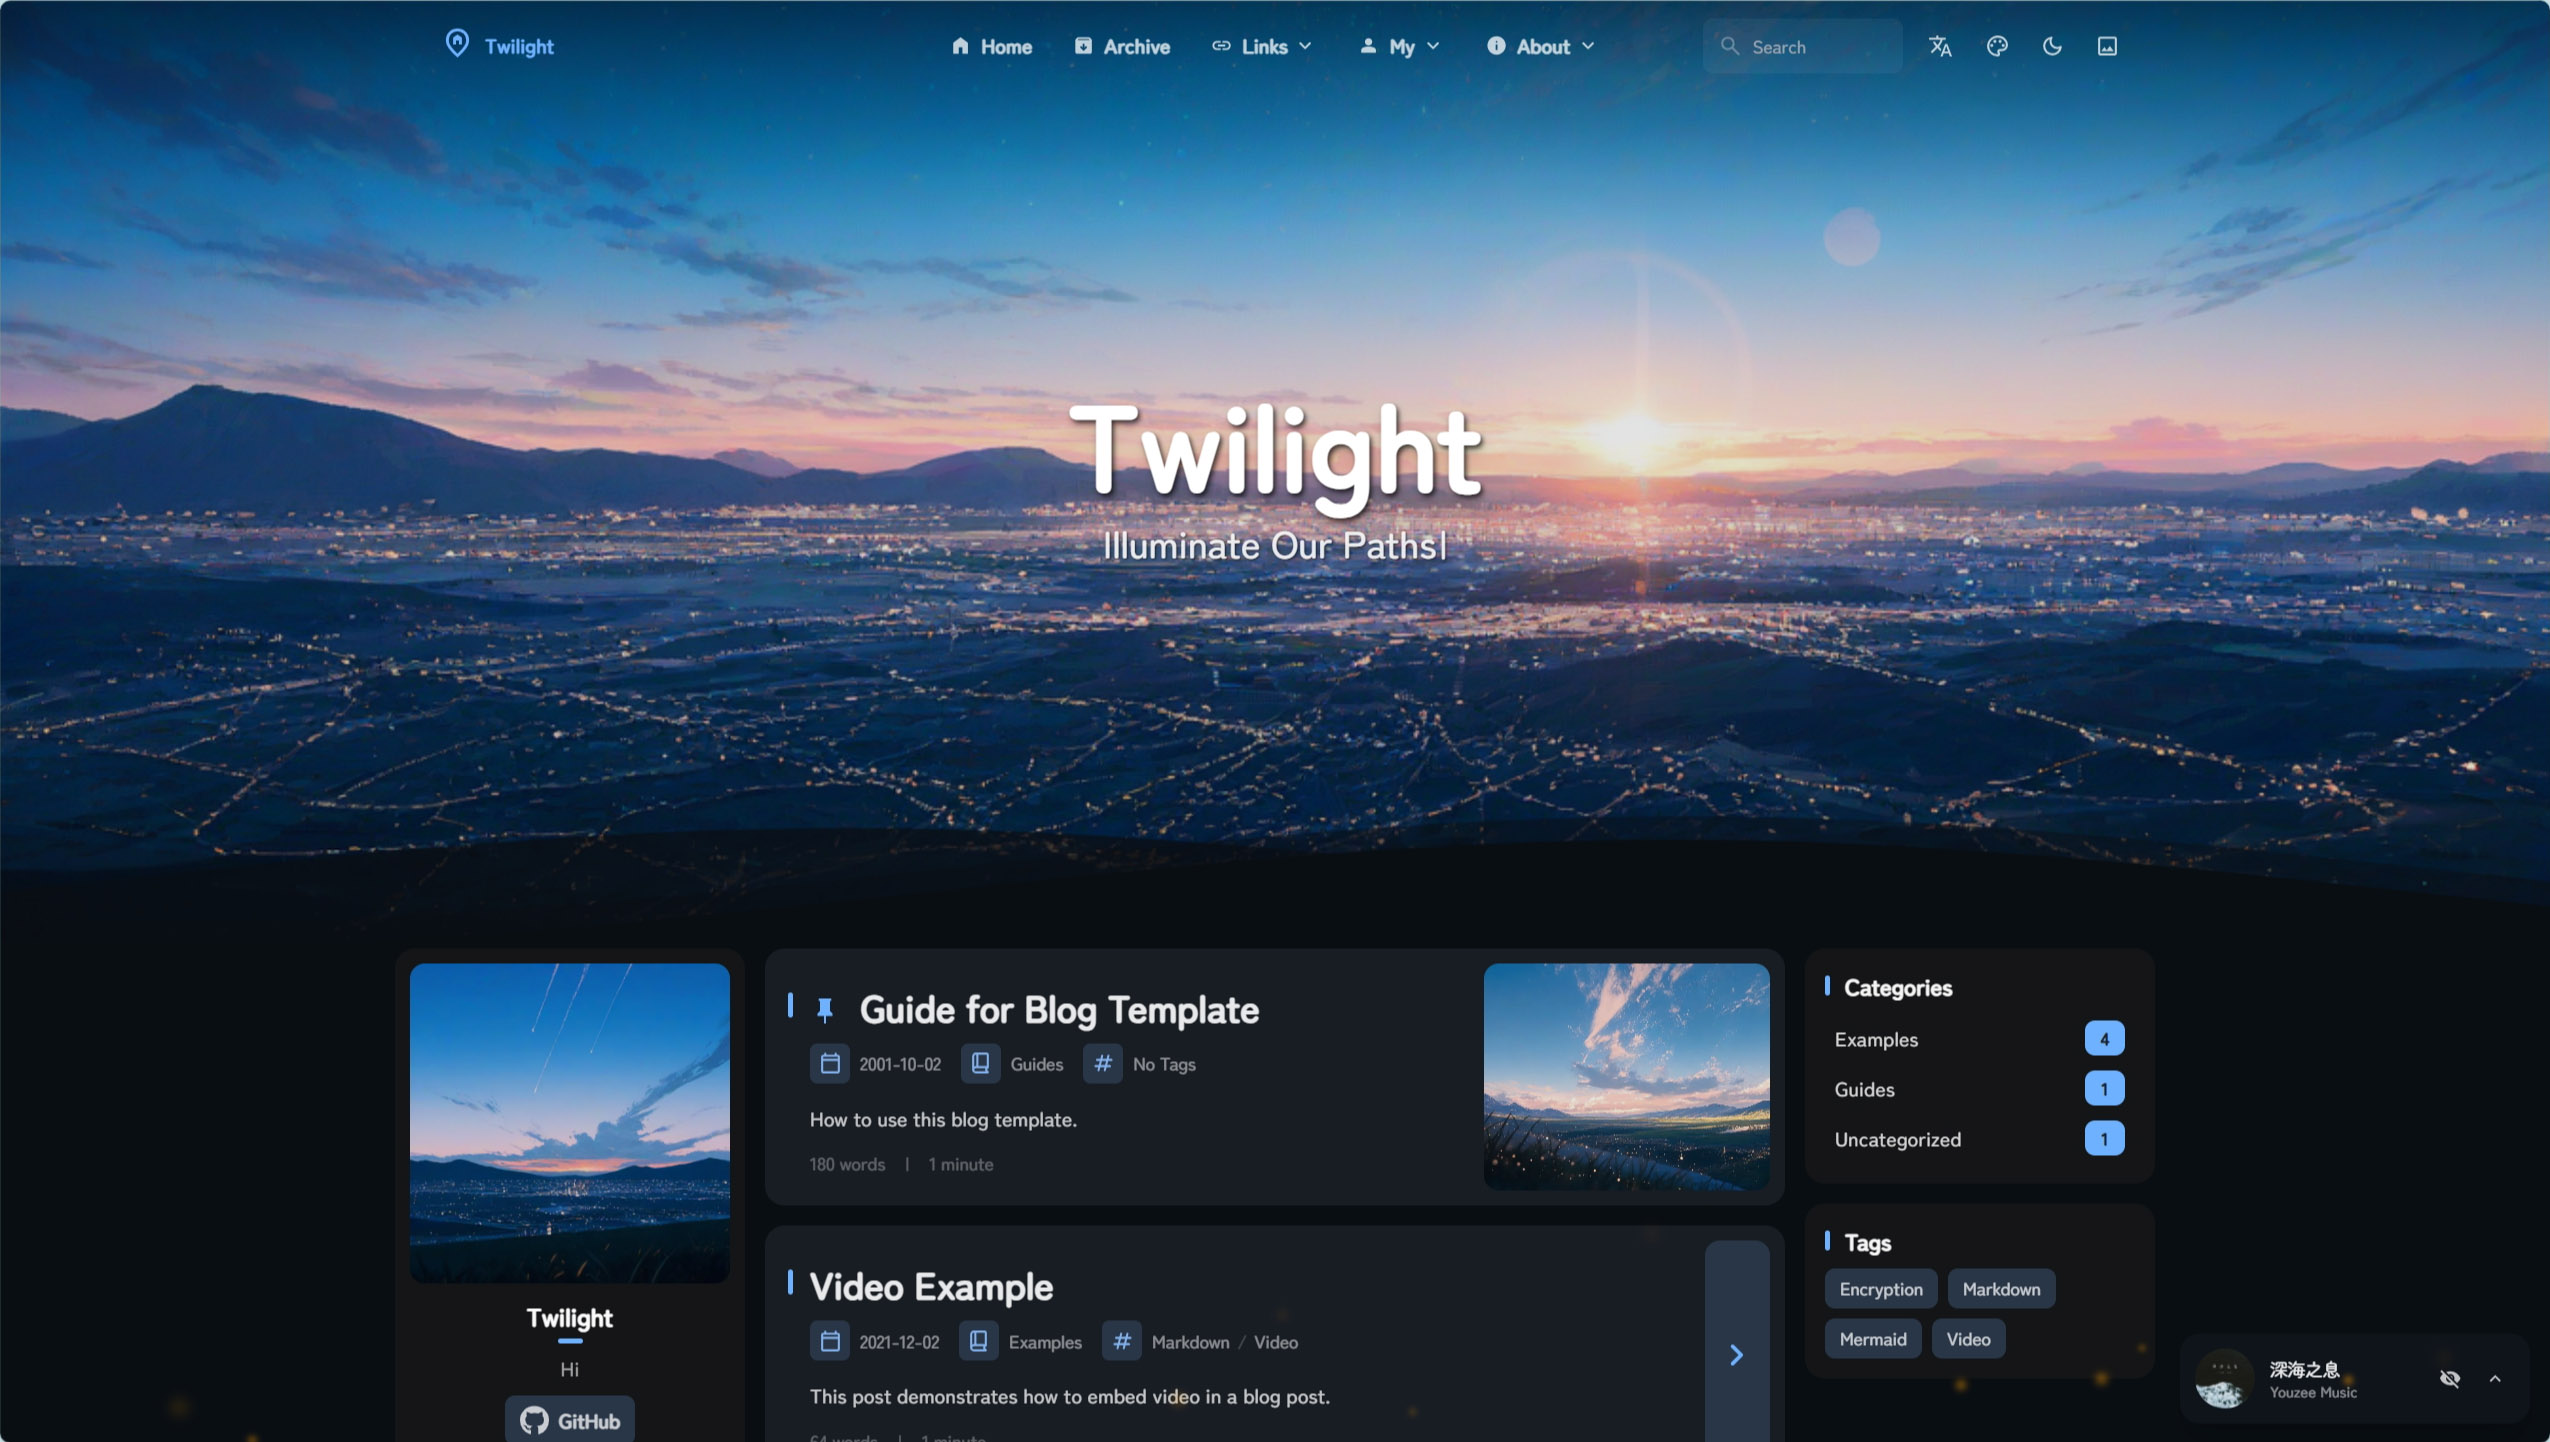
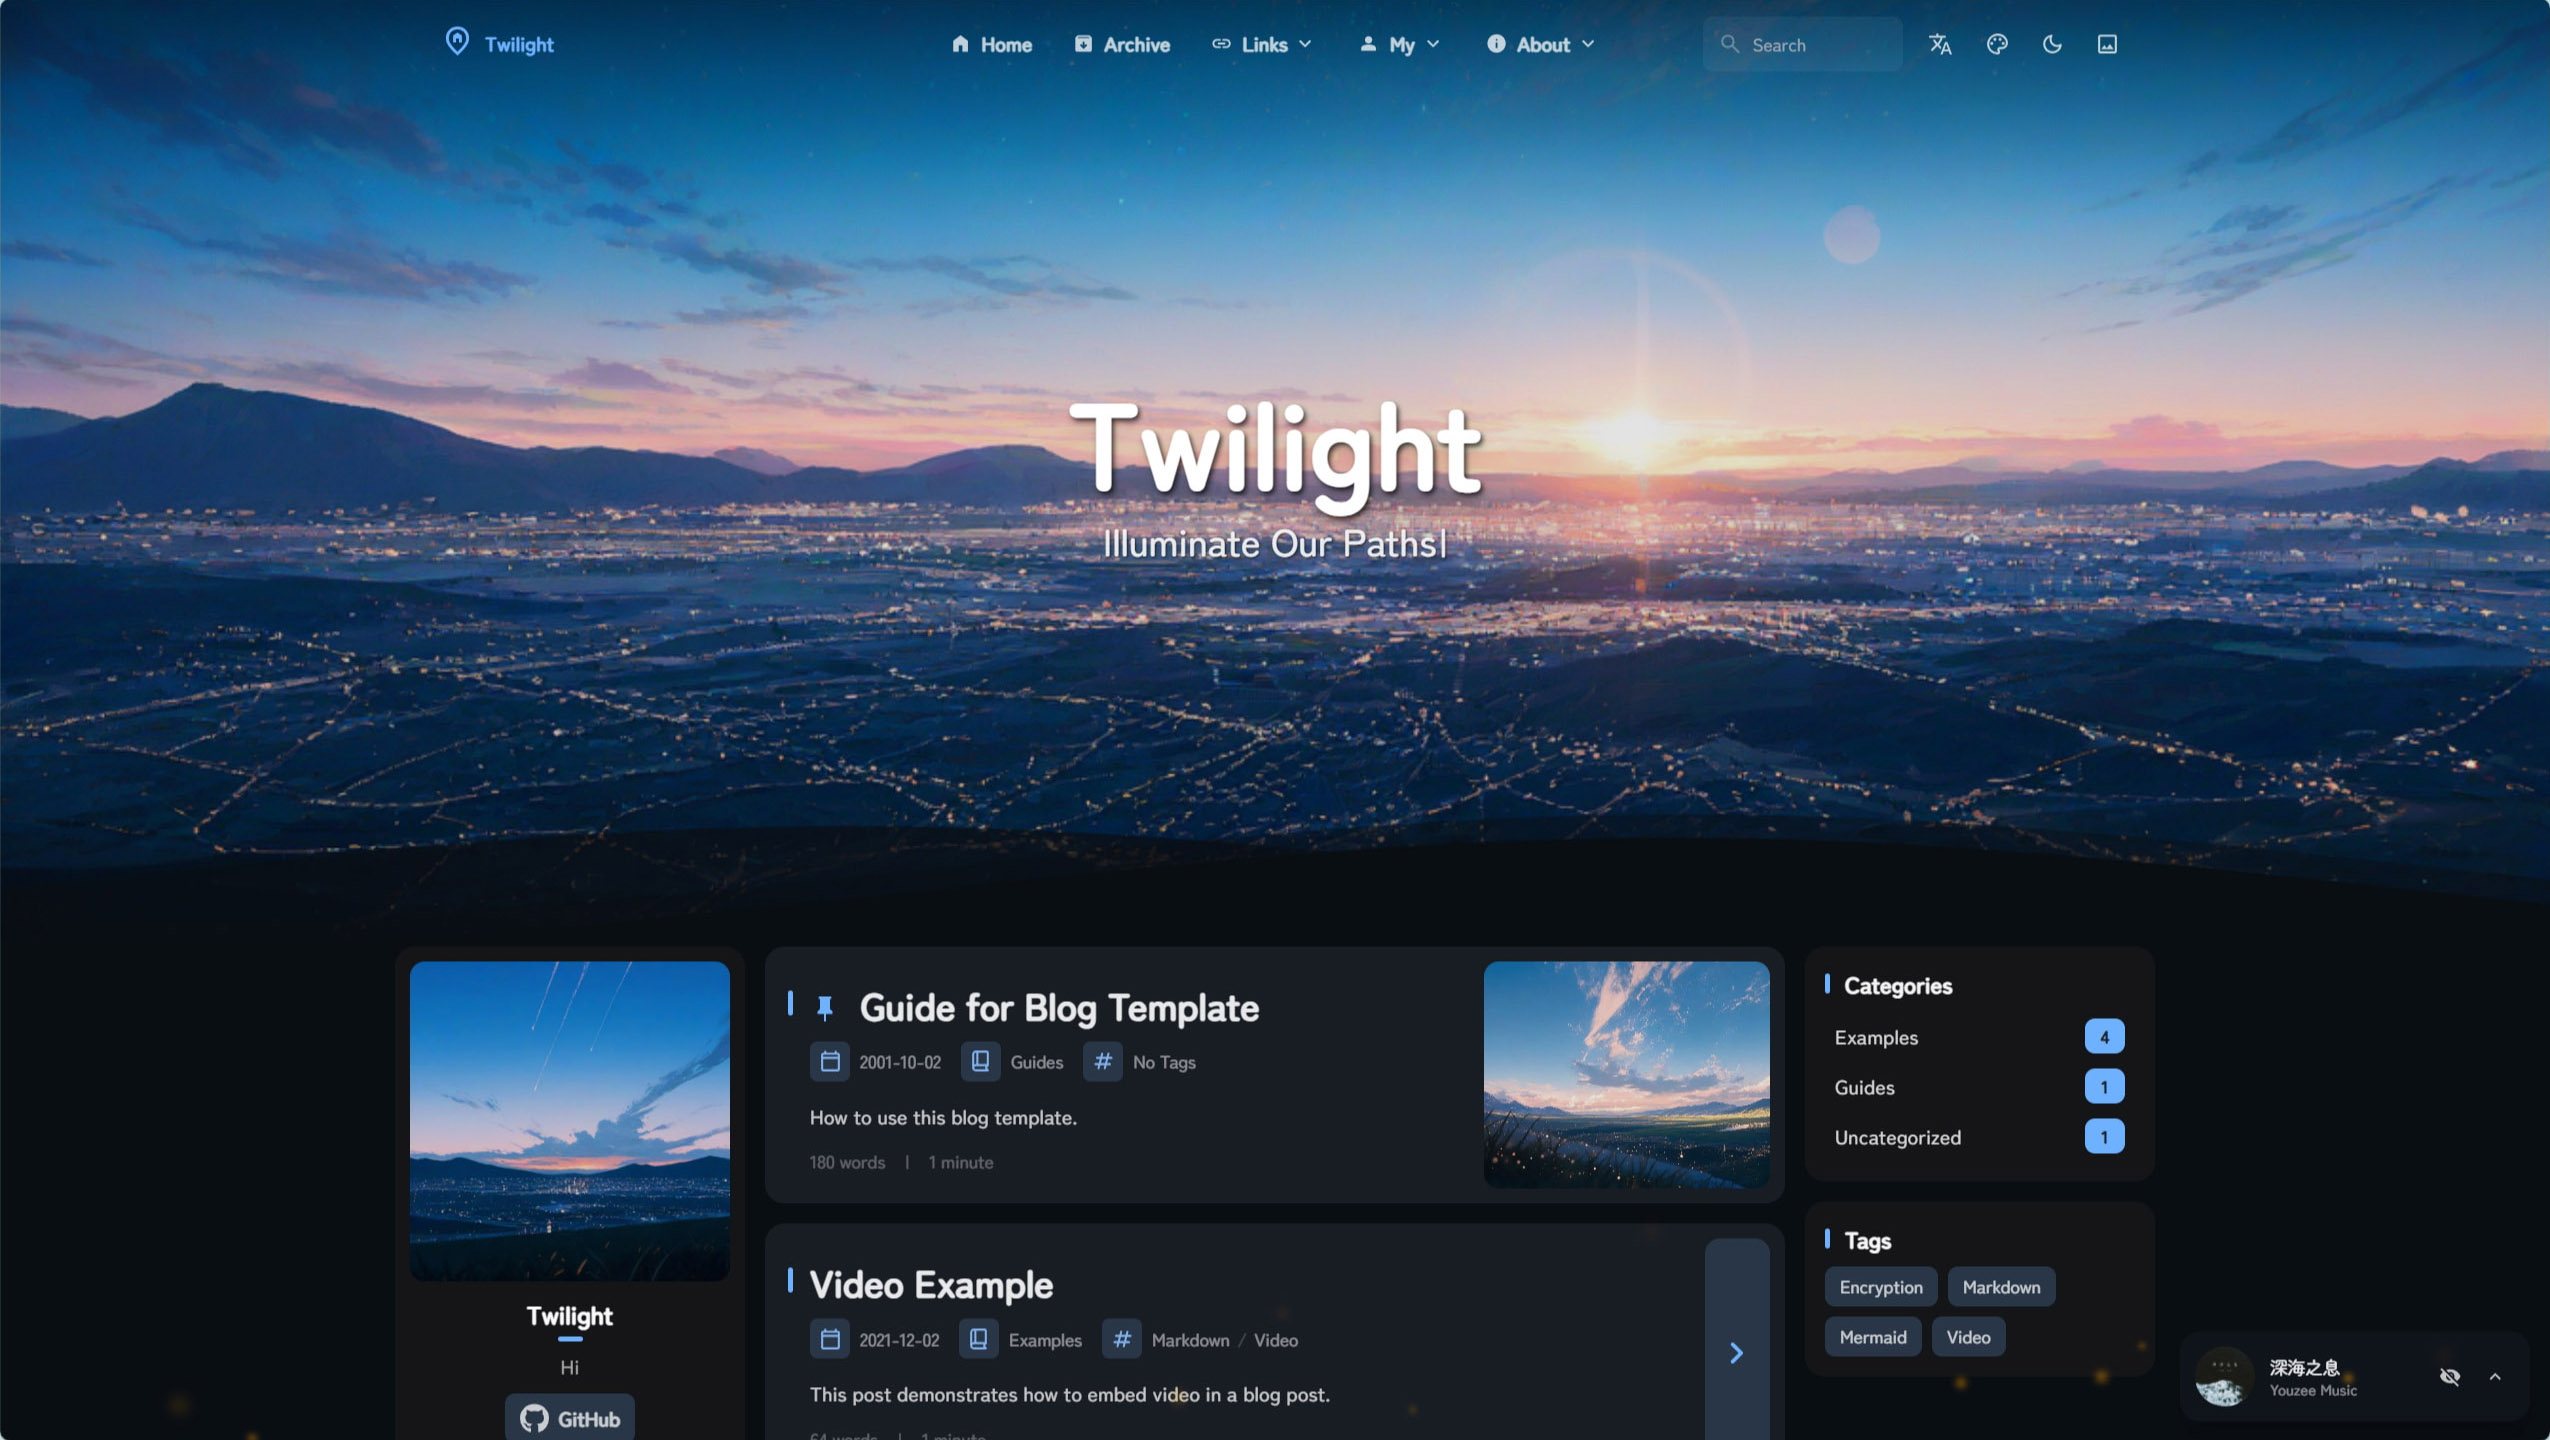
Update README

diff --git a/README.md b/README.md
@@ -2,6 +2,14 @@
 
 # Twilight
 
+A CMS integrated static blog template built with [Astro](https://astro.build) framework.
+
+[![Bilibili](https://img.shields.io/badge/Bilibili-v1.0%20Intro-blue?logo=Bilibili&style=for-the-badge)](https://www.bilibili.com/video/BV18VsUzNEmL)&nbsp;
+[![YouTube](https://img.shields.io/badge/YouTube-v1.0%20Intro-red?logo=YouTube&style=for-the-badge)](https://www.youtube.com/watch?v=VVEiOK8WAK0)
+
+[**🖥 Live Demo**](https://twilight.spr-aachen.com)
+[**📝 Documentation**](https://docs.twilight.spr-aachen.com/en)
+
 <table style="width: 100%; table-layout: fixed;">
    <tr>
       <td colspan="5"><img alt="Desktop" src="docs/image/Desktop.jpg" style="max-width: 100%;"></td>
@@ -15,19 +23,40 @@
    </tr>
 </table>
 
-A CMS integrated static blog template built with [Astro](https://astro.build) framework.
+</div>
 
-[![Bilibili](https://img.shields.io/badge/Bilibili-v1.0%20Intro-blue?logo=Bilibili&style=for-the-badge)](https://www.bilibili.com/video/BV18VsUzNEmL)&nbsp;
-[![YouTube](https://img.shields.io/badge/YouTube-v1.0%20Intro-red?logo=YouTube&style=for-the-badge)](https://www.youtube.com/watch?v=VVEiOK8WAK0)
+---
 
-[**🖥 Live Demo**](https://twilight.spr-aachen.com)
-[**📝 Documentation**](https://docs.twilight.spr-aachen.com/en)
+<div align = "center">
 
 English | [**中文**](docs/README_ZH.md)
 
 </div>
 
----
+
+## ✨ Features
+
+### Content
+- **CMS Functionality**: Easy content management with Decap CMS integration
+- **Data Visualization**: Visualized personal data like projects, skills etc.
+- **Table of Contents**: Automatic generation of post navigation
+
+### Components
+- **Analytics Support**: Umami analytics integration for visitor insights
+- **Comment System**: Twikoo-powered comment functionality
+- **Music Player**: Background music support with playlist management
+- **PIO Widget**: Interactive live2d character support
+
+### VFX
+- **Code Highlighting**: Beautiful syntax highlighting for code blocks
+- **Customizable Theme Colors**: Realtime customizable color schemes
+- **Dynamic Wallpaper System**: Carousel support with multiple display modes
+- **Immersive Particle Effects**: Highly customizable animated particles
+
+### Compability
+- **Modern & Responsive Design**: Fully optimized for desktop and mobile devices
+- **Multilingual Capability**: Built-in translation functionality for global accessibility
+
 
 ## 📦 Installation
 
@@ -65,22 +94,30 @@ Deploy your blog to any static hosting platform
 
 ## ⚡ Commands
 
-| Command                    | Action                                  |
-|:---------------------------|:----------------------------------------|
-| `pnpm install`             | Install dependencies                    |
-| `pnpm dev`                 | Start local dev server                  |
-| `pnpm build`               | Build production site to `./dist/`      |
-| `pnpm preview`             | Preview build locally before deployment |
-| `pnpm check`               | Run Astro error checking                |
-| `pnpm format`              | Format code with Biome                  |
-| `pnpm lint`                | Check and fix code issues               |
-| `pnpm new-post <filename>` | Create a new blog post                  |
-| `pnpm astro ...`           | Run Astro CLI commands                  |
+| Command                     | Action                      |
+|:----------------------------|:----------------------------|
+| `pnpm install`              | Install dependencies        |
+| `pnpm dev`                  | Start local dev server      |
+| `pnpm build`                | Build site to `./dist/`     |
+| `pnpm preview`              | Preview build locally       |
+| `pnpm check`                | Run Astro error checking    |
+| `pnpm lint`                 | Check and fix code issues   |
+| `pnpm format`               | Format code with Biome      |
+| `pnpm new-post <filename>`  | Create a new blog post      |
+| `pnpm astro ...`            | Run Astro CLI commands      |
 
 
 ## 🙏 Acknowledgements
 
-- Based on the original [Fuwari](https://github.com/saicaca/fuwari) template
-- Inspired by [Yukina](https://github.com/WhitePaper233/yukina) & [Mizuki](https://github.com/matsuzaka-yuki/Mizuki) templates
-- CMS functionality powered by [astro-decap-cms-oauth](https://github.com/dorukgezici/astro-decap-cms-oauth)
-- Translation functionality powered by [translate](https://gitee.com/mail_osc/translate)
+- Prototype   - [Fuwari](https://github.com/saicaca/fuwari)
+- Inspiration - [Yukina](https://github.com/WhitePaper233/yukina) & [Mizuki](https://github.com/matsuzaka-yuki/Mizuki)
+- CMS         - [astro-decap-cms-oauth](https://github.com/dorukgezici/astro-decap-cms-oauth)
+- translation - [translate](https://gitee.com/mail_osc/translate)
+
+
+## 🤝 Support
+
+This project is supported by Alibaba Cloud ESA for accelerated delivery, compute, and protection.
+<a href="https://esa.console.aliyun.com/">
+   <img src="https://img.alicdn.com/imgextra/i3/O1CN01H1UU3i1Cti9lYtFrs_!!6000000000139-2-tps-7534-844.png" alt="Alibaba Cloud ESA Support" style="max-width: 100%; height: auto;">
+</a>

diff --git a/docs/README_ZH.md b/docs/README_ZH.md
@@ -2,6 +2,14 @@
 
 # Twilight
 
+一个基于 Astro 框架打造的支持后台管理的静态博客模板
+
+[![Bilibili](https://img.shields.io/badge/Bilibili-v1.0%20Intro-blue?logo=Bilibili&style=for-the-badge)](https://www.bilibili.com/video/BV18VsUzNEmL)&nbsp;
+[![YouTube](https://img.shields.io/badge/YouTube-v1.0%20Intro-red?logo=YouTube&style=for-the-badge)](https://www.youtube.com/watch?v=VVEiOK8WAK0)
+
+[**🖥 演示**](https://twilight.spr-aachen.com)
+[**📝 文档**](https://docs.twilight.spr-aachen.com)
+
 <table style="width: 100%; table-layout: fixed;">
    <tr>
       <td colspan="5"><img alt="Desktop" src="image/Desktop.jpg" style="max-width: 100%;"></td>
@@ -15,19 +23,40 @@
    </tr>
 </table>
 
-一个支持后台管理的静态博客模板
+</div>
 
-[![Bilibili](https://img.shields.io/badge/Bilibili-v1.0%20Intro-blue?logo=Bilibili&style=for-the-badge)](https://www.bilibili.com/video/BV18VsUzNEmL)&nbsp;
-[![YouTube](https://img.shields.io/badge/YouTube-v1.0%20Intro-red?logo=YouTube&style=for-the-badge)](https://www.youtube.com/watch?v=VVEiOK8WAK0)
+---
 
-[**🖥 演示**](https://twilight.spr-aachen.com)
-[**📝 文档**](https://docs.twilight.spr-aachen.com)
+<div align = "center">
 
 [**English**](../README.md) | 中文
 
 </div>
 
----
+
+## ✨ 特性
+
+### 内容
+- **CMS 功能**: 基于 Decap CMS 的便捷内容管理
+- **数据可视化**: 可视化的项目、技能等个人数据
+- **文章目录**: 自动化生成的文章导航
+
+### 组件
+- **站点统计**: 集成 Umami 访客统计的站点分析
+- **评论系统**: 基于 Twikoo 的评论功能
+- **音乐播放器**: 背景音乐播放和播放列表管理
+- **看板娘插件**: 可交互的 live2d 角色
+
+### 视效
+- **代码高亮**: 美观的代码块语法高亮
+- **自定义主题色**: 可实时调整的个性化配色方案
+- **动态壁纸系统**: 拥有多种显示模式的轮播壁纸
+- **动态粒子系统**: 可高度自定义的动画粒子特效
+
+### 适配
+- **响应式设计**: 支持桌面端、移动端无缝切换
+- **多语言能力**: 内置翻译功能，方便全球访问
+
 
 ## 📦 安装
 
@@ -70,17 +99,25 @@
 | `pnpm install`             | 安装依赖                  |
 | `pnpm dev`                 | 启动本地服务器             |
 | `pnpm build`               | 构建站点到 `./dist/`      |
-| `pnpm preview`             | 在部署前本地预览构建       |
+| `pnpm preview`             | 预览本地构建结果           |
 | `pnpm check`               | 运行 Astro 错误检查       |
-| `pnpm format`              | 使用 Biome 格式化代码      |
 | `pnpm lint`                | 检查并修复代码问题         |
+| `pnpm format`              | 使用 Biome 格式化代码      |
 | `pnpm new-post <filename>` | 创建新博客文章             |
 | `pnpm astro ...`           | 运行 `Astro CLI` 命令     |
 
 
 ## 🙏 致谢
 
-- 基于原版的 [Fuwari](https://github.com/saicaca/fuwari) 模板二次开发
-- 灵感来源于 [Yukina](https://github.com/WhitePaper233/yukina) & [Mizuki](https://github.com/matsuzaka-yuki/Mizuki)  模板
-- CMS 功能由 [astro-decap-cms-oauth](https://github.com/dorukgezici/astro-decap-cms-oauth) 提供
-- 翻译功能由 [translate](https://gitee.com/mail_osc/translate) 提供
+- 原型 - [Fuwari](https://github.com/saicaca/fuwari)
+- 灵感 - [Yukina](https://github.com/WhitePaper233/yukina) & [Mizuki](https://github.com/matsuzaka-yuki/Mizuki)
+- CMS - [astro-decap-cms-oauth](https://github.com/dorukgezici/astro-decap-cms-oauth)
+- 翻译 - [translate](https://gitee.com/mail_osc/translate)
+
+
+## 🤝 支持
+
+本项目由阿里云ESA提供加速、计算和保护
+<a href="https://esa.console.aliyun.com/">
+   <img src="https://img.alicdn.com/imgextra/i3/O1CN01H1UU3i1Cti9lYtFrs_!!6000000000139-2-tps-7534-844.png" href="https://esa.console.aliyun.com/" alt="阿里云ESA支持" style="max-width: 100%; height: auto;">
+</a>
